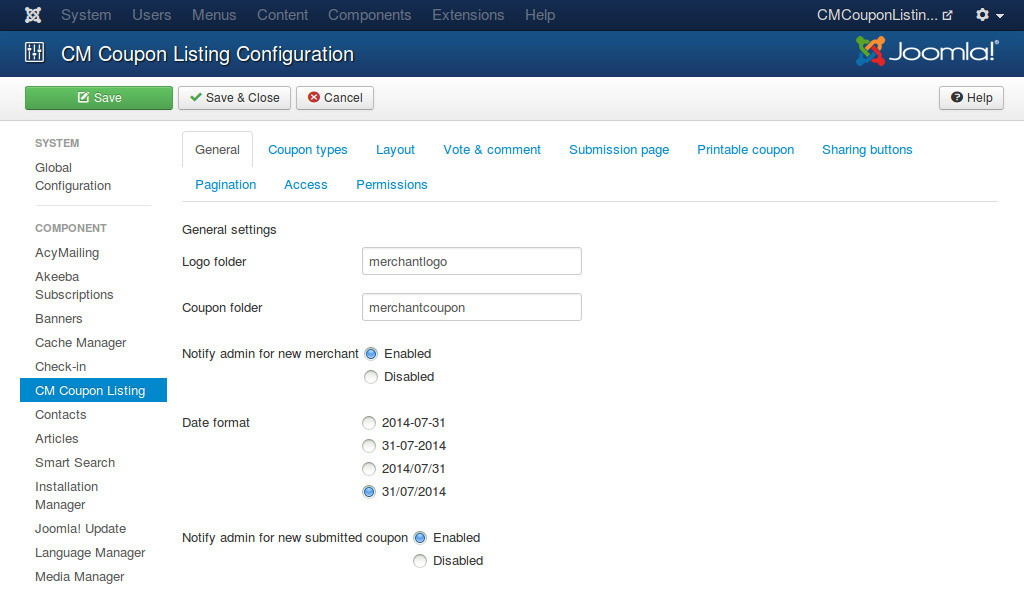
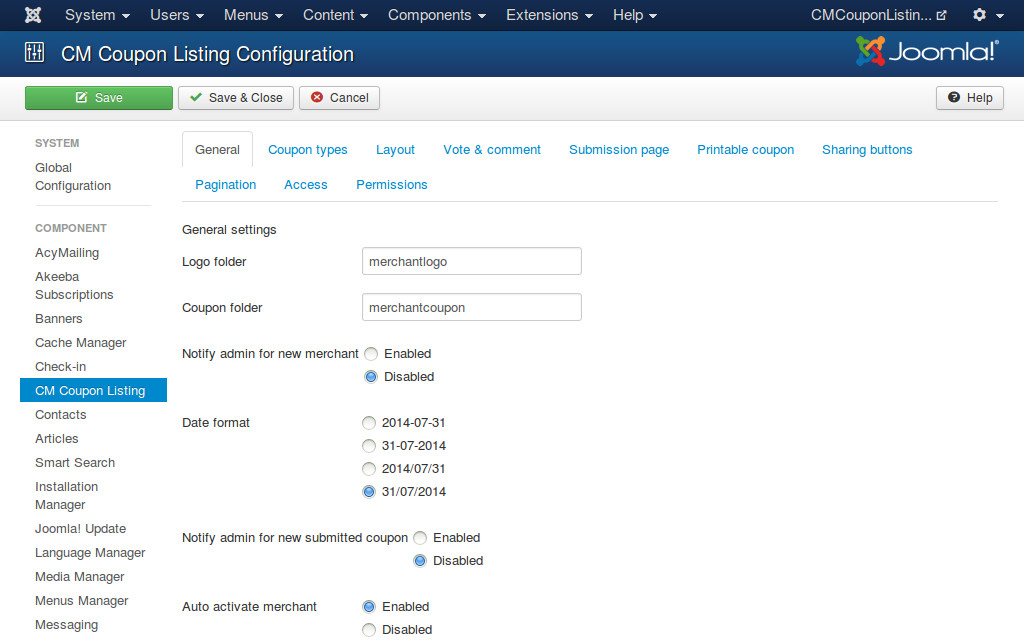
2.1.0

diff --git a/conf.py b/conf.py
@@ -44,16 +44,16 @@ master_doc = 'index'
 
 # General information about the project.
 project = u'CM Coupon Listing'
-copyright = u'2014, CMExtension'
+copyright = u'2014-2015, CMExtension'
 
 # The version info for the project you're documenting, acts as replacement for
 # |version| and |release|, also used in various other places throughout the
 # built documents.
 #
 # The short X.Y version.
-version = '2.0.0'
+version = '2.1.0'
 # The full version, including alpha/beta/rc tags.
-release = '2.0.0'
+release = '2.1.0'
 
 # The language for content autogenerated by Sphinx. Refer to documentation
 # for a list of supported languages.

diff --git a/pages/configuration.rst b/pages/configuration.rst
@@ -16,6 +16,7 @@ General
 * **Notify admin for new merchant**: Enable or disable mailing to administrators when a new merchant registers. All administrators will receive this notification mail.
 * **Date format**: The date format used which is used in merchant and user's submission forms.
 * **Notify admin for new coupon**: Send notification mail to administrators when there is a new coupon submitted in front-end by merchant or user.
+* **Auto activate merchant**: Auto activate merchant after merchant registers.
 
 Logo and coupon folders are inside your Joomla!'s image folder. You can configure your Joomla!'s image folder in Media Manager.
 
